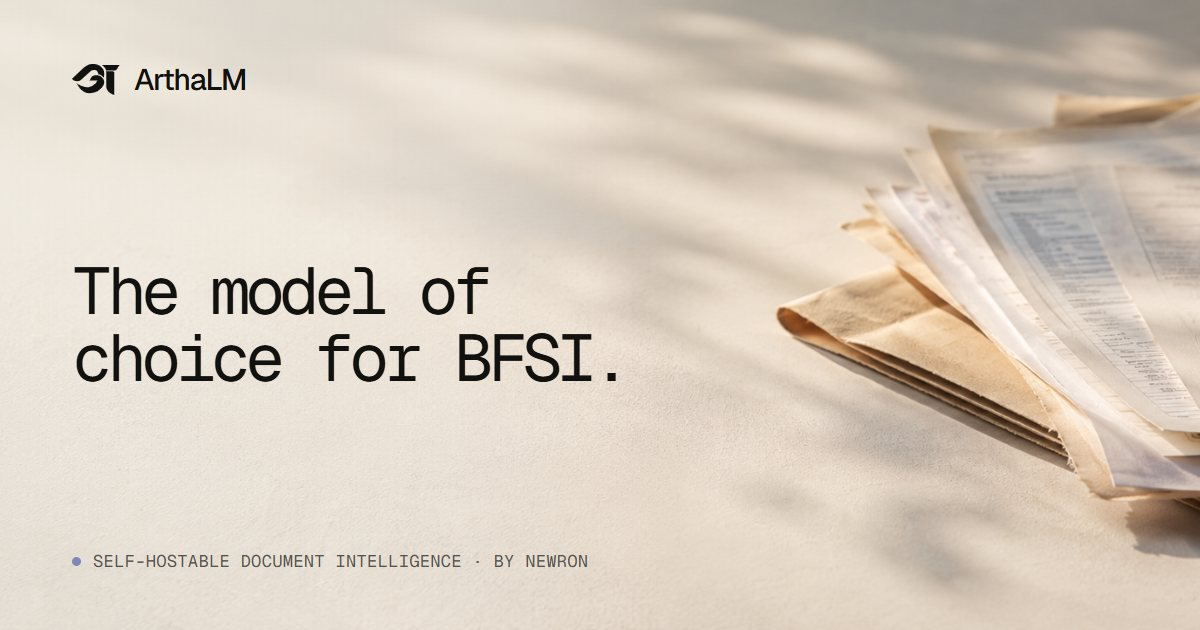
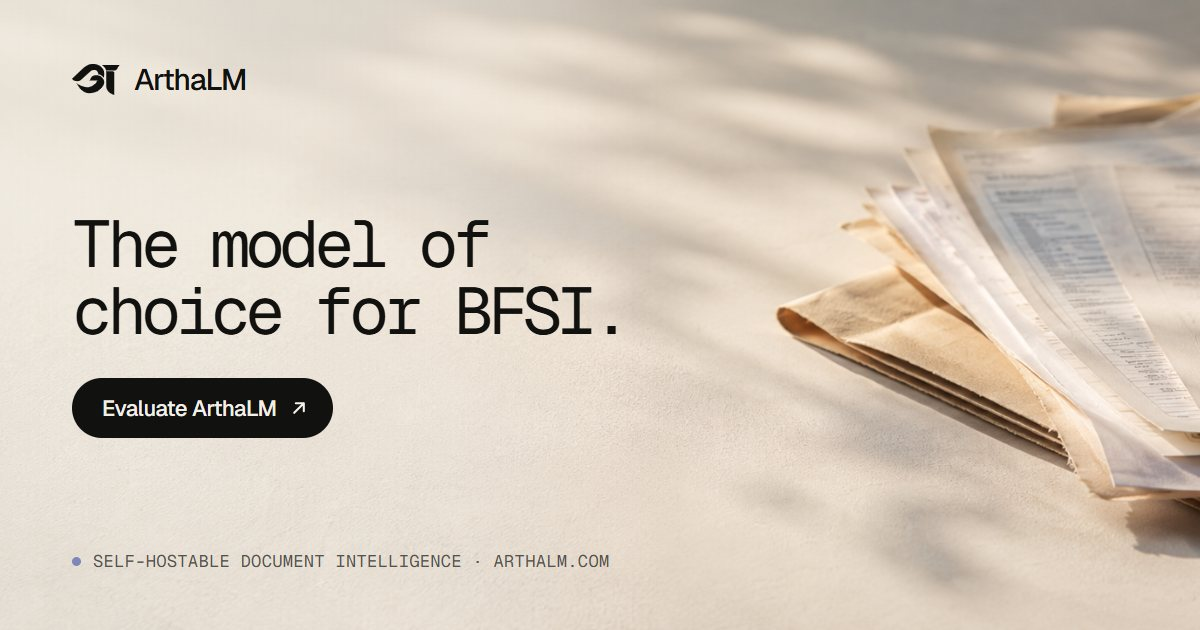
Shorten share titles and add a call to action to the share image
- Site title cut from 75 to 48 characters so Google, X and LinkedIn don't
  truncate it: "ArthaLM by Newron — The model of choice for BFSI".
- og.jpg gains an "Evaluate ArthaLM" button and the arthalm.com address.
- Image URL is versioned (?v=2) so WhatsApp/LinkedIn fetch the new image
  instead of their cached copy.

Changed region(s): [[0.0617, 0.3317, 0.5242, 0.6937], [0.4008, 0.8746, 0.5242, 0.9048]]

diff --git a/src/app/layout.tsx b/src/app/layout.tsx
@@ -17,13 +17,14 @@ const geistMono = Geist_Mono({
   subsets: ["latin"],
 });
 
-const title = "ArthaLM by Newron — The model of choice for BFSI & regulated industries";
+const title = "ArthaLM by Newron — The model of choice for BFSI";
 const description = "From fragmented data to actionable frontier intelligence which you can self host.";
 
 // A plain file, not app/opengraph-image.jpg: on Vercel preview deployments Next points
 // file-convention images at the *.vercel.app URL, and arthalm.com is served as a preview.
 const shareImage = {
-  url: "/og.jpg",
+  // Bump ?v= whenever og.jpg changes: WhatsApp and LinkedIn cache images by URL.
+  url: "/og.jpg?v=2",
   width: 1200,
   height: 630,
   alt: "ArthaLM by Newron: the model of choice for BFSI and regulated industries. A stack of loan documents resting on warm paper in soft daylight.",
